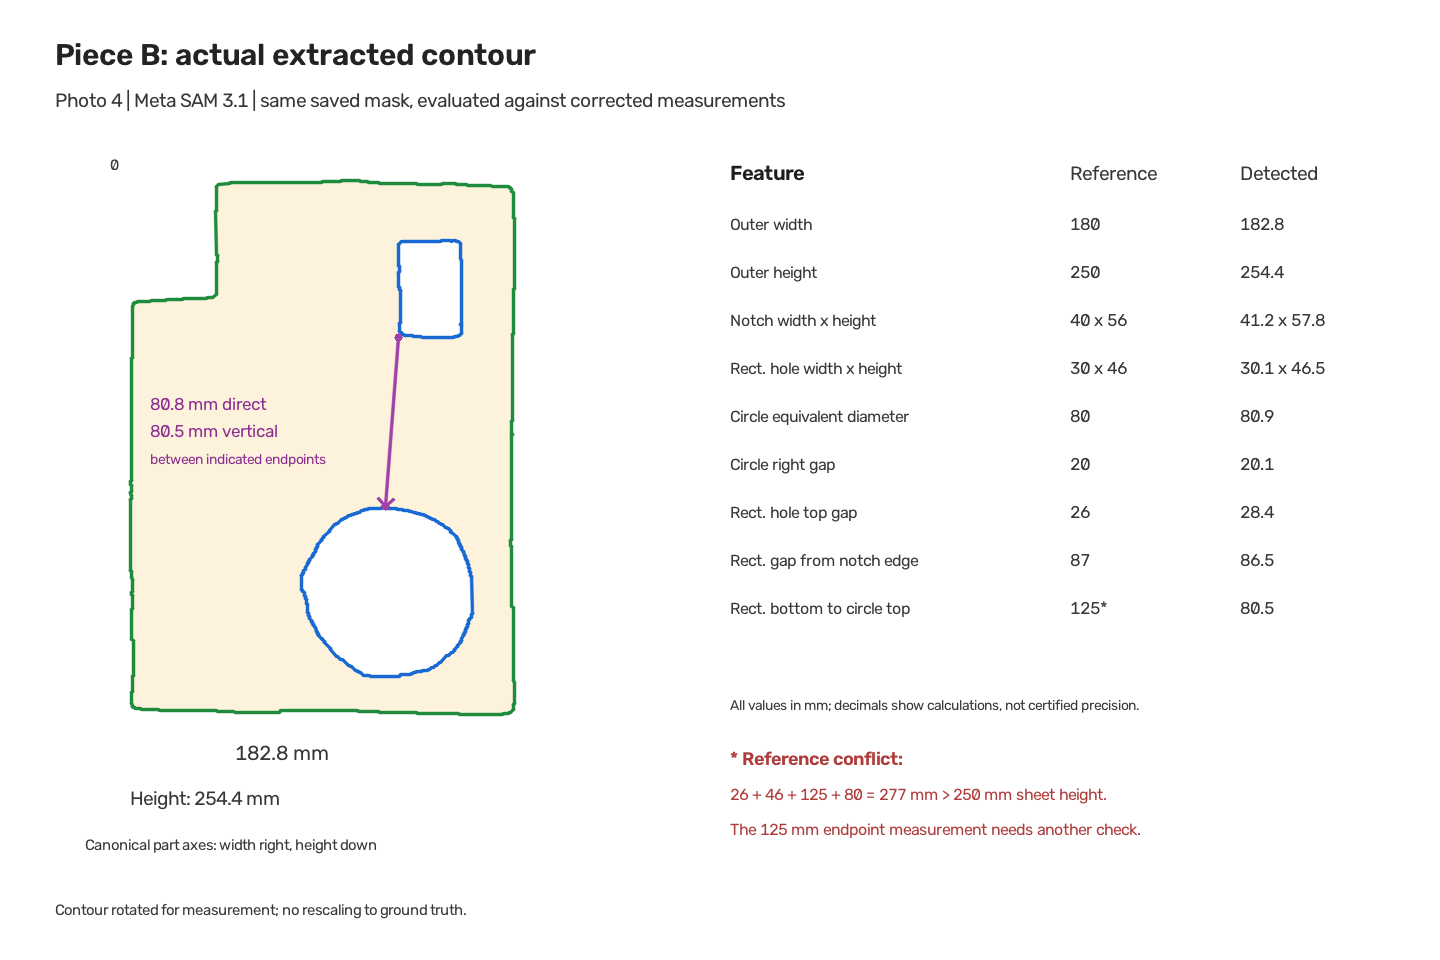
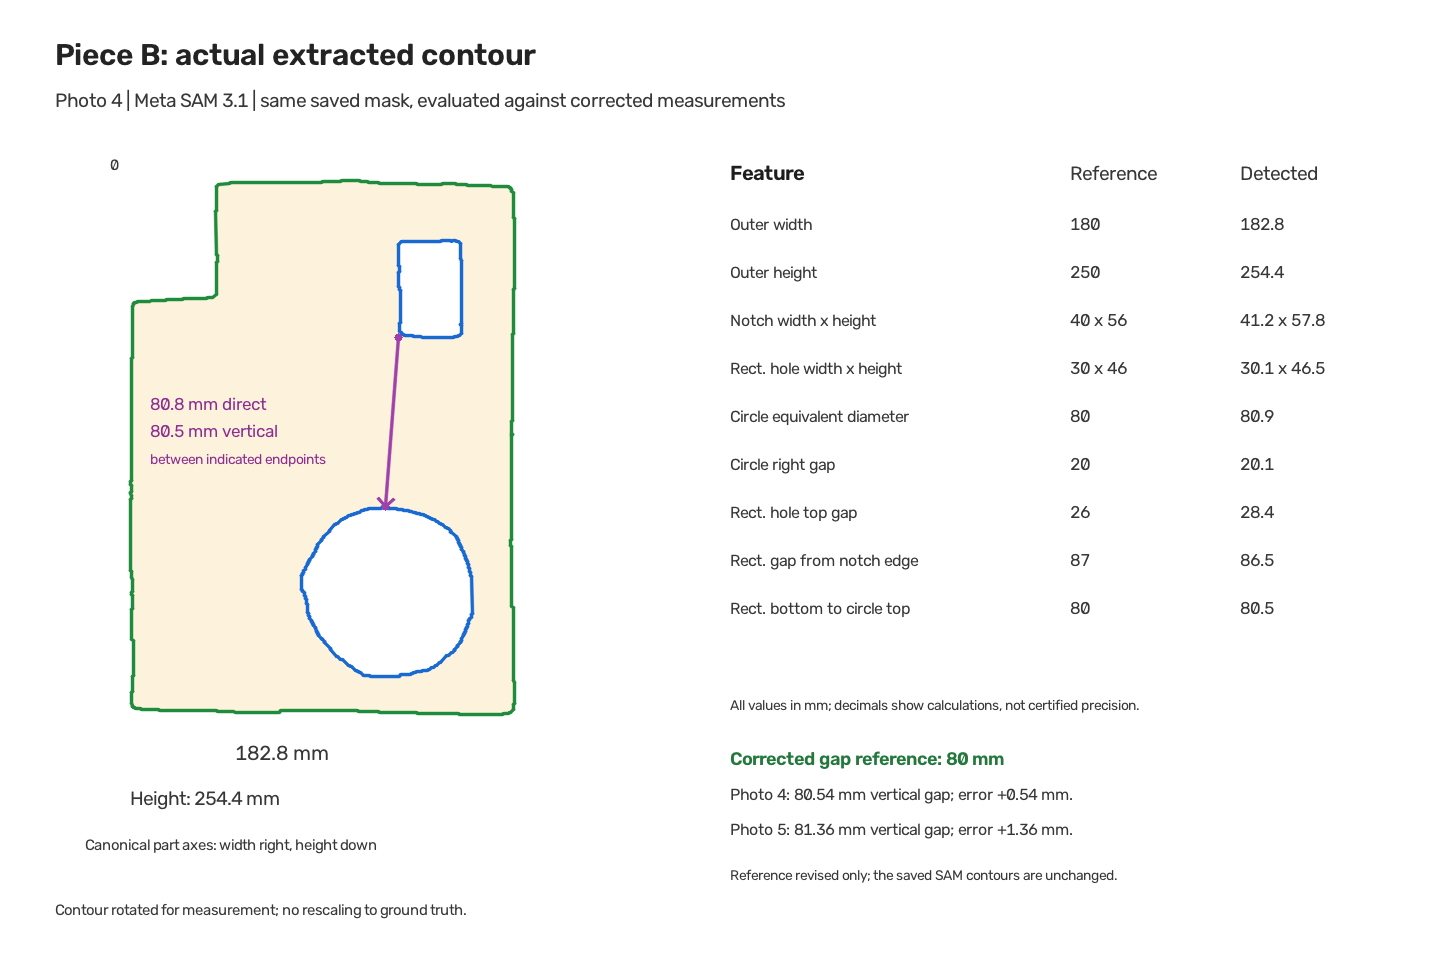
docs: correct physical gap reference to 80 mm

Changed region(s): [[0.5, 0.7812, 0.7812, 0.875], [0.5, 0.9062, 0.7812, 0.9375], [0.75, 0.625, 0.7812, 0.6562]]

diff --git a/docs/architecture/PHYSICAL_VALIDATION_20261030.md b/docs/architecture/PHYSICAL_VALIDATION_20261030.md
@@ -93,6 +93,7 @@ All values are millimetres. The notch is exterior geometry, not a third hole.
 | Circle vertical span | 80 | 80.5 | 80.7 |
 | Circle equivalent-area diameter | 80 | 80.9 | 80.5 |
 | Circle right gap | 20 | 20.1 | 20.4 |
+| Rectangle bottom to circle top, vertical gap | 80 | 80.5 | 81.4 |
 
 B's largest scored internal-feature/notch error is 3.04 mm. Exterior height error
 reaches 5.27 mm. Idealized revised usable area is 36,353.45 mm²; extracted areas
@@ -101,27 +102,23 @@ local boundary errors.
 
 ![Unmodified extracted contour rotated into measurement axes](assets/piece-b-contour-20261030.png)
 
-### The 125 mm reference conflicts with the other dimensions
+### Corrected rectangle-to-circle gap
 
-The user describes 125 mm from the rectangle's bottom-left to the circular hole's
-first intersection, specifically its very top edge, using “diagonal/vertical.”
-Under a vertical top-edge interpretation:
+The user corrected the previously supplied 125 mm measurement to **80 mm**
+(8 cm). The earlier reference and comparison are retained privately as revision
+history; there is no remaining reference-closure conflict.
 
-`26 + 46 + 125 + 80 = 277 mm`, exceeding the 250 mm exterior height.
+Observed rectangle-bottom to circle-top vertical gaps are **80.54 / 81.36 mm**,
+errors of **+0.54 / +1.36 mm** against the corrected reference. Distances between
+the rectangle bounds' bottom-left and detected circle's topmost point are
+**80.78 / 81.39 mm**, errors of **+0.78 / +1.39 mm** if measured directly between
+those endpoints. The diagram distinguishes vertical separation from direct
+distance. Both interpretations agree closely with the corrected 80 mm reference.
 
-Even as a diagonal to the topmost point, the other references place the rectangle
-corner at x=127 mm and circle centre at x=120 mm. A circle fitting inside this
-sheet allows a maximum distance of about 98.25 mm to its topmost point.
-
-Observed rectangle-bottom to circle-top vertical gaps are **80.54 / 81.36 mm**
-(literal differences from 125: **−44.46 / −43.64 mm**). Distances between the
-rectangle bounds' bottom-left and detected circle's topmost point are
-**80.78 / 81.39 mm**. The diagram marks those endpoints. Contour irregularities
-affect definitions slightly, but do not resolve this roughly 44 mm discrepancy.
-
-The 125 mm reference is retained as conflicting and excluded from accuracy
-acceptance. It is not silently reinterpreted as a centre measurement. Another
-physical endpoint check is needed before treating it as valid ground truth.
+The corrected vertical reference stack is `26 + 46 + 80 + 80 = 232 mm`, leaving
+18 mm below the circle within the 250 mm exterior. Saved model results and
+contours were unchanged; only the comparison reference and report were updated.
+This correction also followed the estimates and is not blind validation.
 
 ## Piece A repeat captures
 
@@ -174,8 +171,8 @@ shapes, rotation, perspective, blocked captures, physical-stock identity and
 complete verified multi-sheet planning. No model integration or geometry code
 change was needed for these specimens.
 
-This remains a supervised cardboard prototype. The 125 mm endpoint needs checking,
-exterior accuracy varies with capture, metal/glare performance remains untested,
+This remains a supervised cardboard prototype. The reference discrepancy is
+resolved; exterior accuracy varies with capture, metal/glare performance remains untested,
 and a fresh operator walkthrough is separate work. Demo claims should retain
 these measured errors and limits.
 

diff --git a/Front End/VALIDATION.md b/Front End/VALIDATION.md
@@ -53,7 +53,8 @@ The unmodified contours produced a real Baseten-parsed 50-copy DXF job and a
 complete nine-part job across both sheets, with final software verification.
 These were isolated API checks, not a second browser exercise. Physical source
 photos remain private. Corrected references were supplied after results; exterior
-errors reach 7.32 mm and one supplied offset remains inconsistent.
+errors reach 7.32 mm. The user corrected the remaining gap reference to 80 mm;
+the detected gaps are 80.54 and 81.36 mm.
 
 The live captures also prompted clearer recapture guidance for calibration
 failure and disconnected contours, including a single sheet cropped by the

diff --git a/docs/architecture/PHYSICAL_VALIDATION.md b/docs/architecture/PHYSICAL_VALIDATION.md
@@ -4,8 +4,8 @@ Decision date: 29 October 2026.
 
 Status: Two cardboard specimens tested across eight new captures on 30 October
 2026. The [two-piece report](PHYSICAL_VALIDATION_20261030.md) records five correct
-topologies, three blocked captures, exterior errors up to 7.32 mm, a conflicting
-reference offset and verified downstream jobs. No uniform physical accuracy
+topologies, three blocked captures, exterior errors up to 7.32 mm, corrected
+reference offsets and verified downstream jobs. No uniform physical accuracy
 acceptance has been established.
 
 First photo and specimen measurements received on 29 October 2026.
